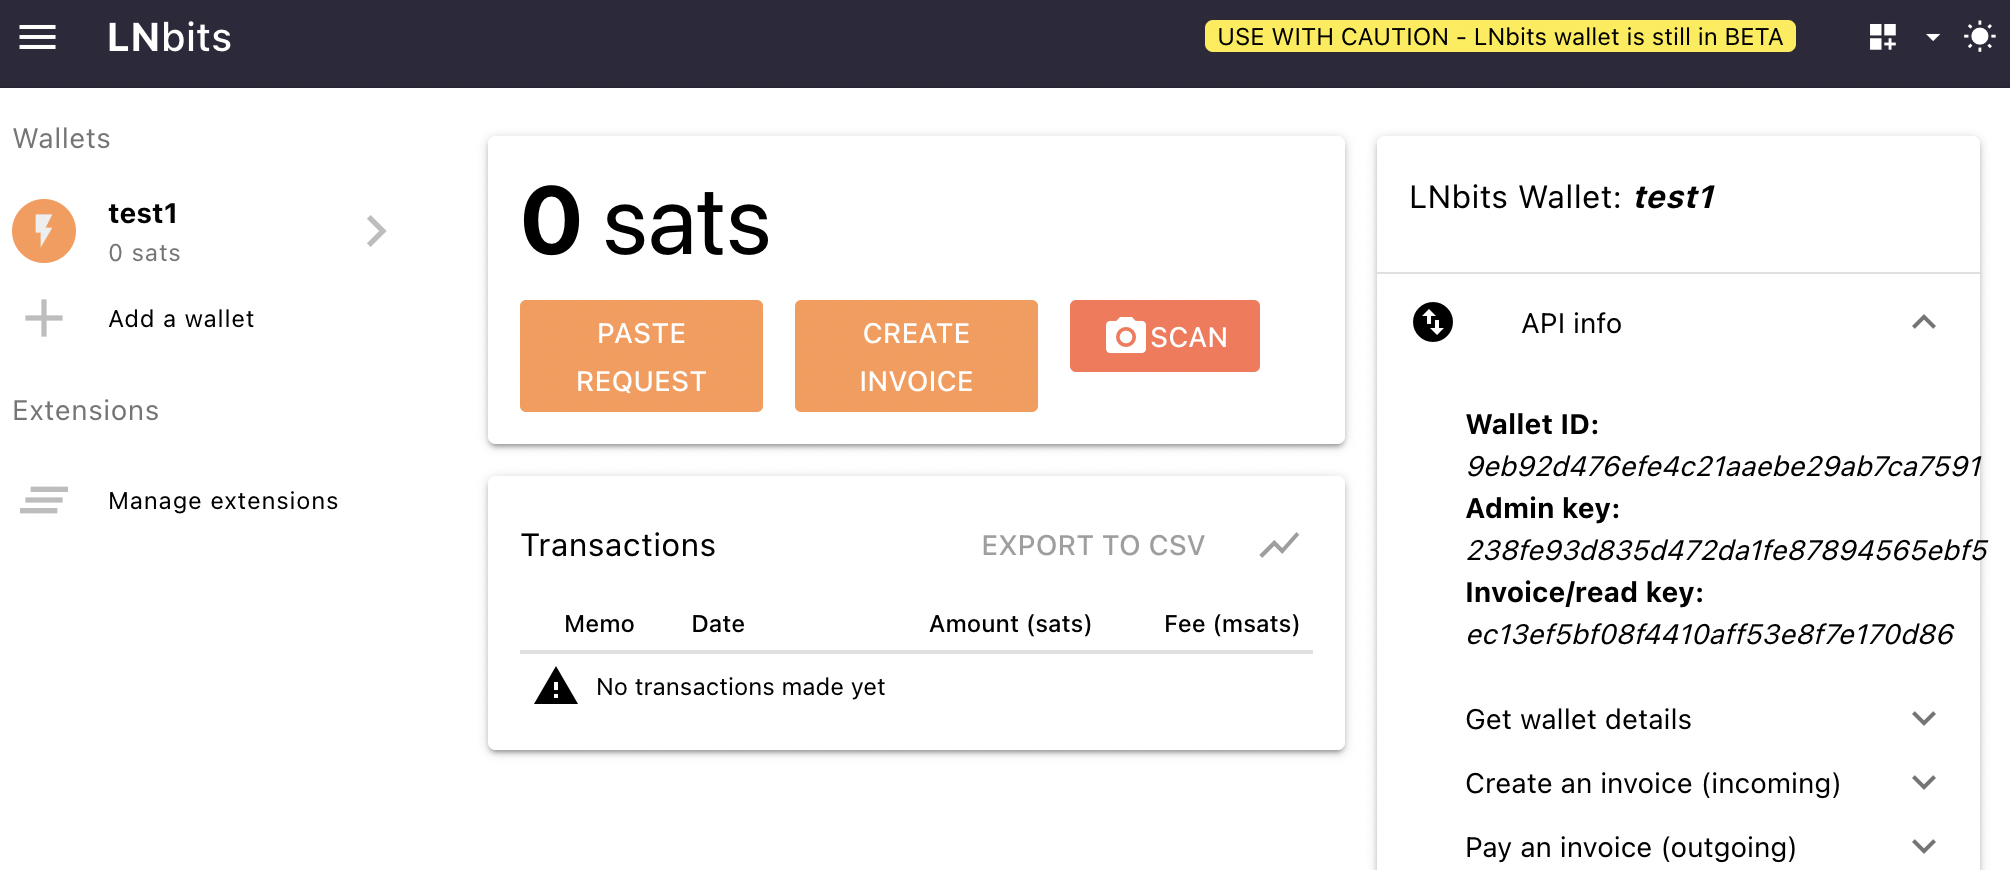
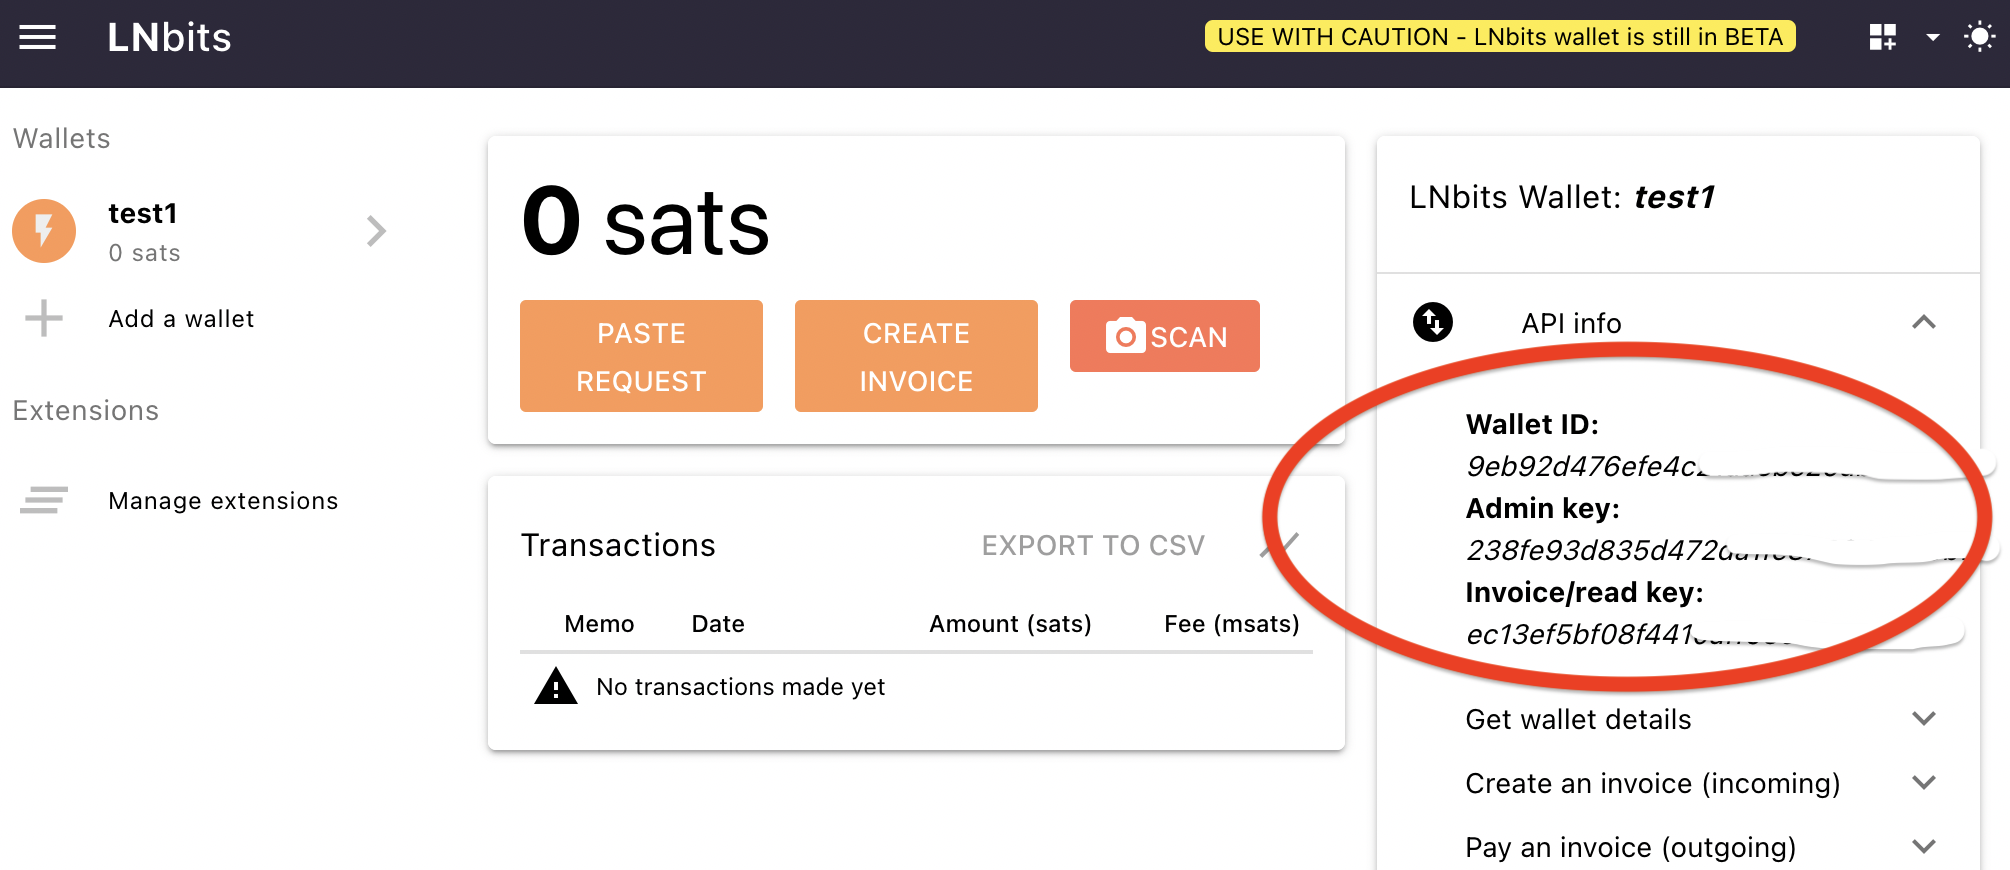
update images, links, template

Changed region(s): [[0.6169, 0.3724, 1.0, 0.8069]]

diff --git a/docs/index.md b/docs/index.md
@@ -1,16 +1,10 @@
 # Welcome to Pylnbits Docs
 
-These docs for the [**pylnbits**](https://github.com/lightningames/pylnbits) library are auto generated. For full documentation on how they were generated, visit [mkdocs.org](https://www.mkdocs.org).
-
-## [How To Guides](/pylnbits/how-to-guides/)
+The purpose of the [**pylnbits**](https://github.com/lightningames/pylnbits) library is to enable accelerated access to the LNBits API, by packaging commonly used methods, and so that app developers can write less code in python. 
 
 Visit the [How To Guide](/pylnbits/how-to-guides/)
-on how to use the **pylnbits library** for how to install, configure and connect to pylnbits API using sample code. If you are not yet familiar with LNBits, please visit lnbits.com. 
+to understand how to install, configure and connect to pylnbits API using sample code. If you are not yet familiar with LNBits, please visit [lnbits.com](https://lnbits.com). 
 
-
-## [Reference](/pylnbits/reference/)
-
-This part of the project documentation focuses on an information-oriented approach. It is a [reference](/reference/) for the technical implementation of the pylnbits project code.
 
 ## Project layout
 
@@ -38,3 +32,6 @@ Get the Source: [https://github.com/lightningames/pylnbits](https://github.com/l
         test_usermanager.py
         test_userwallet.py
 
+
+
+These docs for the [**pylnbits**](https://github.com/lightningames/pylnbits) library are auto generated. For full documentation on how they were generated, visit [mkdocs.org](https://www.mkdocs.org).

diff --git a/docs/how-to-guides.md b/docs/how-to-guides.md
@@ -49,9 +49,10 @@ First create a `config.yml` file, copy the Keys from LNBits with your values. Th
 
 ### `config.yml`
 ```
-lnbits_url: "https://<your lnbits domain here>"
+lnbits_url: "https://<your lnbits domain here, e.g. https://legend.lnbits.com>"
 
-# api_key from LNbits User Manager Extension
+# get api_keys from LNbits Wallet
+
 in_key: "<your Invoice Key here>" 
 admin_key: "< Your Admin Key here>"
 ```
@@ -118,12 +119,13 @@ loop.run_until_complete(main())
 
 ```
 
-For more details on what values need to be passed in for the methods, check the LNBits API docs, which should be located on the LNBits site below your LNBits Admin and Invoice Key.
+
+### Where to get LNBits API details
+
+For more details on what values need to be passed to the above pylnbits example, please check the LNBits API docs, which should be located on the LNBits website in the section below your the Admin and Invoice Key. Expand the tabs as shown in the image below. 
 
 
-### Expand the tabs for more LNBits API info
-![API Info on LNBits](images/API_info.png)
-
+![API detail](images/api_info.png)
 
 
 ### Sample code for LNURLp

diff --git a/docs/explanation.md b/docs/explanation.md
@@ -1,6 +1,6 @@
 # Explanation
 
-The purpose of the [**pylnbits library**](https://github.com/lightningames/pylnbits) is to enable accelerated access to the LNBits API, by packaging commonly used methods, and so that app developers can write less code. 
+The purpose of the [**pylnbits library**](https://github.com/lightningames/pylnbits) is to enable accelerated access to the LNBits API, by packaging commonly used methods, and so that app developers can write less code in python. 
 
 Visit [lnbits.com](https://lnbits.com) for more information on the parent project.
 

diff --git a/docs/reference.md b/docs/reference.md
@@ -19,9 +19,9 @@ reference for the technical implementation of the
 
 ::: pylnbits.lndhub
 
-## Project layout
+--
 
-Source: [https://github.com/lightningames/pylnbits](https://github.com/lightningames/pylnbits)
+## Project layout
 
     mkdocs.yml    # The configuration file.
     docs/
